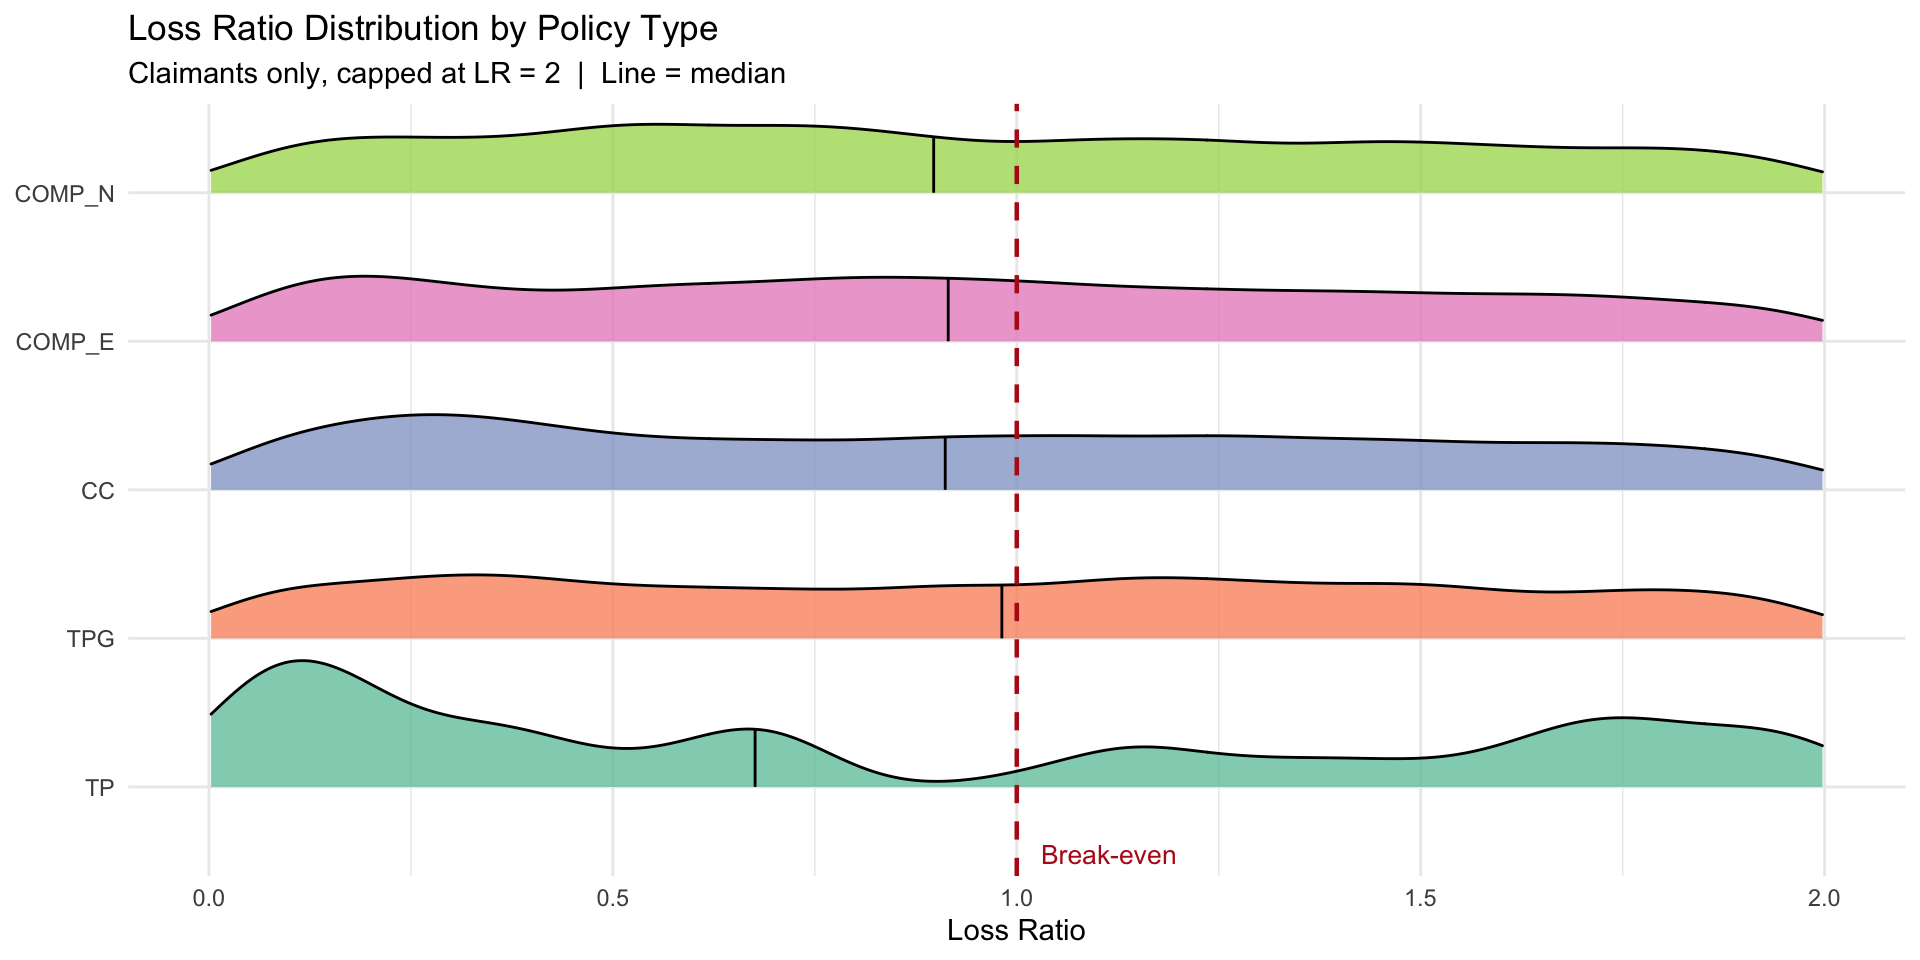
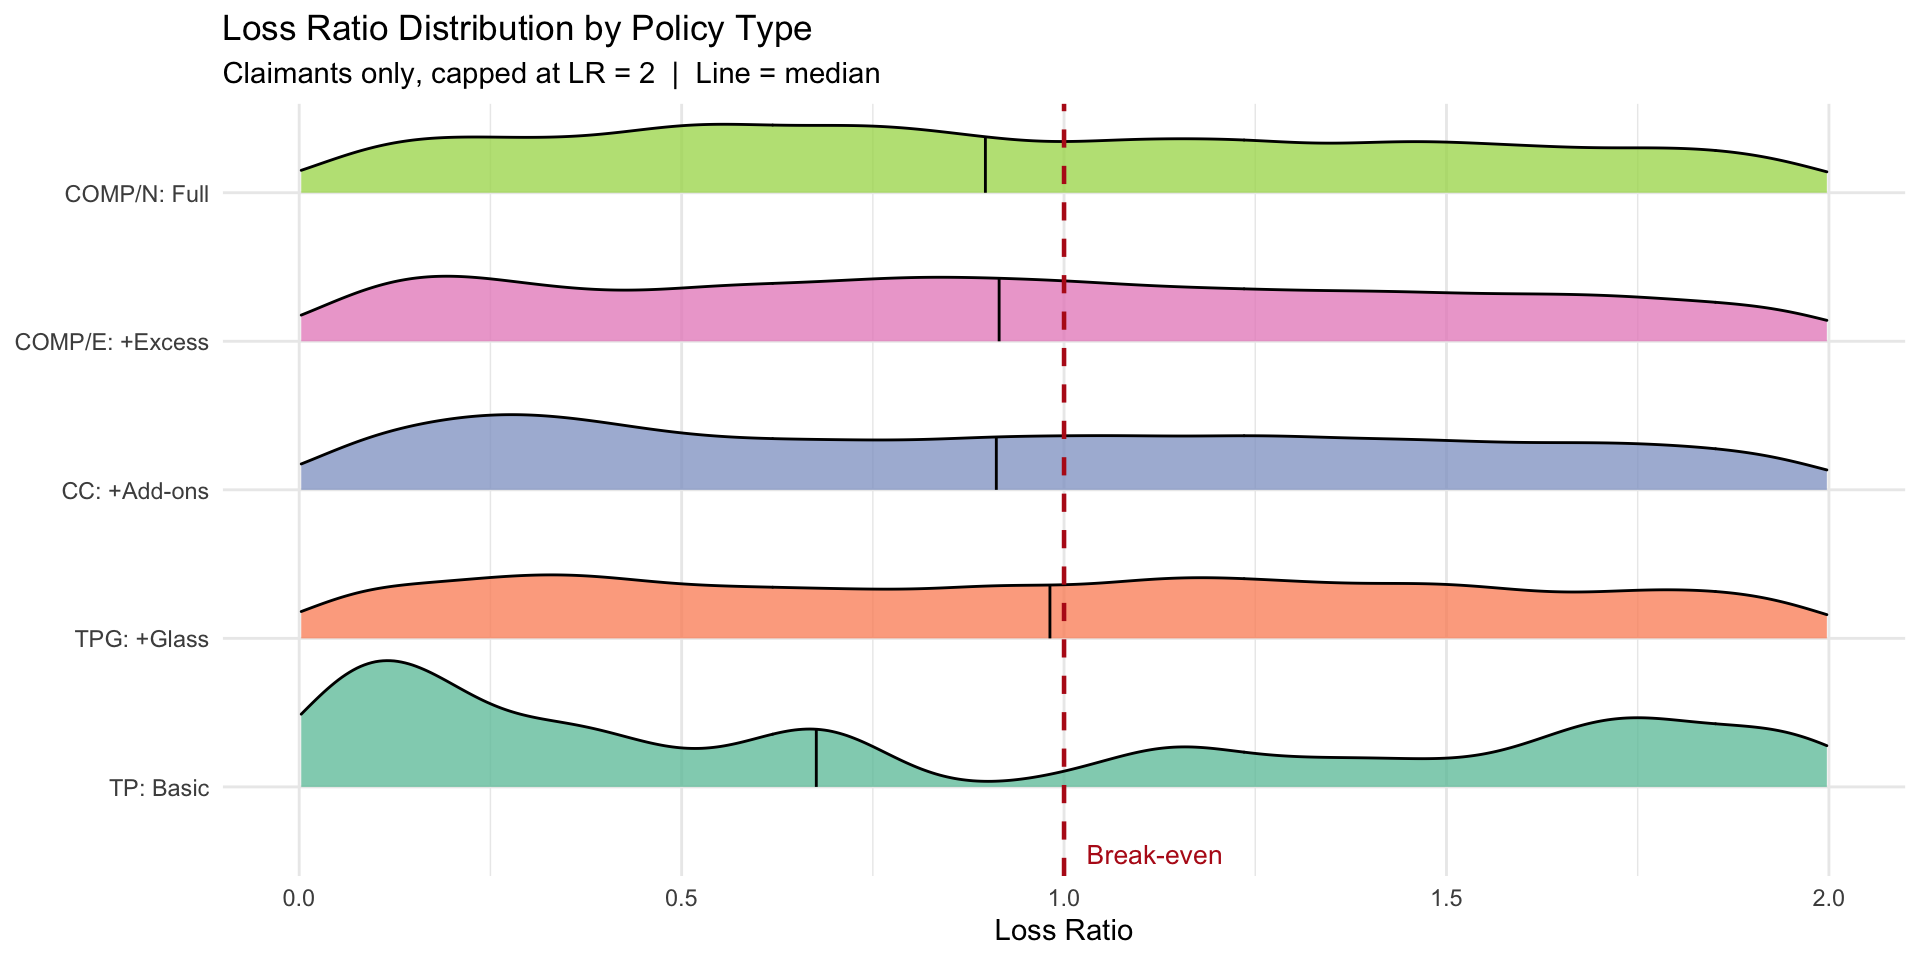
Fix policy type labels in both report and slides, correct percentages

diff --git a/_site/Take-home_Ex/Take-home_Ex01/Take-home_Ex01.html b/_site/Take-home_Ex/Take-home_Ex01/Take-home_Ex01.html
@@ -283,7 +283,7 @@ pre > code.sourceCode > span > a:first-child::before { text-decoration: underlin
     <div>
     <div class="quarto-title-meta-heading">Modified</div>
     <div class="quarto-title-meta-contents">
-      <p class="date-modified">May 19, 2026</p>
+      <p class="date-modified">May 22, 2026</p>
     </div>
   </div>
     
@@ -500,23 +500,25 @@ Note
 <div class="code-copy-outer-scaffold"><div class="sourceCode cell-code" id="cb8"><pre class="sourceCode r code-with-copy"><code class="sourceCode r"><span id="cb8-1"><a href="#cb8-1" aria-hidden="true" tabindex="-1"></a>insurance <span class="ot">&lt;-</span> insurance <span class="sc">|&gt;</span></span>
 <span id="cb8-2"><a href="#cb8-2" aria-hidden="true" tabindex="-1"></a>  <span class="fu">mutate</span>(</span>
 <span id="cb8-3"><a href="#cb8-3" aria-hidden="true" tabindex="-1"></a>    <span class="at">policy_type =</span> <span class="fu">factor</span>(policy_type,</span>
-<span id="cb8-4"><a href="#cb8-4" aria-hidden="true" tabindex="-1"></a>                         <span class="at">levels =</span> <span class="fu">c</span>(<span class="st">"TP"</span>, <span class="st">"TPG"</span>, <span class="st">"CC"</span>, <span class="st">"COMP_E"</span>, <span class="st">"COMP_N"</span>)),</span>
-<span id="cb8-5"><a href="#cb8-5" aria-hidden="true" tabindex="-1"></a>    <span class="at">policy_status =</span> <span class="fu">factor</span>(policy_status, <span class="at">levels =</span> <span class="fu">c</span>(<span class="st">"A"</span>, <span class="st">"C"</span>),</span>
-<span id="cb8-6"><a href="#cb8-6" aria-hidden="true" tabindex="-1"></a>                           <span class="at">labels =</span> <span class="fu">c</span>(<span class="st">"Active"</span>, <span class="st">"Cancelled"</span>)),</span>
-<span id="cb8-7"><a href="#cb8-7" aria-hidden="true" tabindex="-1"></a>    <span class="at">business_type =</span> <span class="fu">factor</span>(business_type, <span class="at">levels =</span> <span class="fu">c</span>(<span class="st">"NB"</span>, <span class="st">"P"</span>),</span>
-<span id="cb8-8"><a href="#cb8-8" aria-hidden="true" tabindex="-1"></a>                           <span class="at">labels =</span> <span class="fu">c</span>(<span class="st">"New Business"</span>, <span class="st">"Portfolio"</span>)),</span>
-<span id="cb8-9"><a href="#cb8-9" aria-hidden="true" tabindex="-1"></a>    <span class="at">payment_frequency =</span> <span class="fu">factor</span>(payment_frequency, <span class="at">levels =</span> <span class="fu">c</span>(<span class="st">"A"</span>, <span class="st">"S"</span>, <span class="st">"Q"</span>),</span>
-<span id="cb8-10"><a href="#cb8-10" aria-hidden="true" tabindex="-1"></a>                               <span class="at">labels =</span> <span class="fu">c</span>(<span class="st">"Annual"</span>, <span class="st">"Semiannual"</span>, <span class="st">"Quarterly"</span>)),</span>
-<span id="cb8-11"><a href="#cb8-11" aria-hidden="true" tabindex="-1"></a>    <span class="at">bonus_score =</span> <span class="fu">factor</span>(bonus_score, <span class="at">levels =</span> <span class="fu">c</span>(<span class="st">"G"</span>, <span class="st">"N"</span>, <span class="st">"B"</span>),</span>
-<span id="cb8-12"><a href="#cb8-12" aria-hidden="true" tabindex="-1"></a>                         <span class="at">labels =</span> <span class="fu">c</span>(<span class="st">"Good"</span>, <span class="st">"Neutral"</span>, <span class="st">"Bad"</span>)),</span>
-<span id="cb8-13"><a href="#cb8-13" aria-hidden="true" tabindex="-1"></a>    <span class="at">fuel_type =</span> <span class="fu">factor</span>(fuel_type, <span class="at">levels =</span> <span class="fu">c</span>(<span class="st">"D"</span>, <span class="st">"G"</span>),</span>
-<span id="cb8-14"><a href="#cb8-14" aria-hidden="true" tabindex="-1"></a>                       <span class="at">labels =</span> <span class="fu">c</span>(<span class="st">"Diesel"</span>, <span class="st">"Gasoline"</span>)),</span>
-<span id="cb8-15"><a href="#cb8-15" aria-hidden="true" tabindex="-1"></a>    <span class="at">municipality_type =</span> <span class="fu">factor</span>(municipality_type, <span class="at">levels =</span> <span class="fu">c</span>(<span class="st">"I"</span>, <span class="st">"C"</span>, <span class="st">"IS"</span>),</span>
-<span id="cb8-16"><a href="#cb8-16" aria-hidden="true" tabindex="-1"></a>                               <span class="at">labels =</span> <span class="fu">c</span>(<span class="st">"Inland"</span>, <span class="st">"Coastal"</span>, <span class="st">"Islands"</span>)),</span>
-<span id="cb8-17"><a href="#cb8-17" aria-hidden="true" tabindex="-1"></a>    <span class="at">circulation_area =</span> <span class="fu">factor</span>(circulation_area, <span class="at">levels =</span> <span class="fu">c</span>(<span class="st">"U"</span>, <span class="st">"R"</span>),</span>
-<span id="cb8-18"><a href="#cb8-18" aria-hidden="true" tabindex="-1"></a>                              <span class="at">labels =</span> <span class="fu">c</span>(<span class="st">"Urban"</span>, <span class="st">"Rural"</span>)),</span>
-<span id="cb8-19"><a href="#cb8-19" aria-hidden="true" tabindex="-1"></a>    <span class="at">year =</span> <span class="fu">as.integer</span>(year)</span>
-<span id="cb8-20"><a href="#cb8-20" aria-hidden="true" tabindex="-1"></a>  )</span></code></pre></div><button title="Copy to Clipboard" class="code-copy-button"><i class="bi"></i></button></div>
+<span id="cb8-4"><a href="#cb8-4" aria-hidden="true" tabindex="-1"></a>                         <span class="at">levels =</span> <span class="fu">c</span>(<span class="st">"TP"</span>, <span class="st">"TPG"</span>, <span class="st">"CC"</span>, <span class="st">"COMP_E"</span>, <span class="st">"COMP_N"</span>),</span>
+<span id="cb8-5"><a href="#cb8-5" aria-hidden="true" tabindex="-1"></a>                         <span class="at">labels =</span> <span class="fu">c</span>(<span class="st">"TP: Basic"</span>, <span class="st">"TPG: +Glass"</span>, <span class="st">"CC: +Add-ons"</span>,</span>
+<span id="cb8-6"><a href="#cb8-6" aria-hidden="true" tabindex="-1"></a>                                    <span class="st">"COMP/E: +Excess"</span>, <span class="st">"COMP/N: Full"</span>)),</span>
+<span id="cb8-7"><a href="#cb8-7" aria-hidden="true" tabindex="-1"></a>    <span class="at">policy_status =</span> <span class="fu">factor</span>(policy_status, <span class="at">levels =</span> <span class="fu">c</span>(<span class="st">"A"</span>, <span class="st">"C"</span>),</span>
+<span id="cb8-8"><a href="#cb8-8" aria-hidden="true" tabindex="-1"></a>                           <span class="at">labels =</span> <span class="fu">c</span>(<span class="st">"Active"</span>, <span class="st">"Cancelled"</span>)),</span>
+<span id="cb8-9"><a href="#cb8-9" aria-hidden="true" tabindex="-1"></a>    <span class="at">business_type =</span> <span class="fu">factor</span>(business_type, <span class="at">levels =</span> <span class="fu">c</span>(<span class="st">"NB"</span>, <span class="st">"P"</span>),</span>
+<span id="cb8-10"><a href="#cb8-10" aria-hidden="true" tabindex="-1"></a>                           <span class="at">labels =</span> <span class="fu">c</span>(<span class="st">"New Business"</span>, <span class="st">"Portfolio"</span>)),</span>
+<span id="cb8-11"><a href="#cb8-11" aria-hidden="true" tabindex="-1"></a>    <span class="at">payment_frequency =</span> <span class="fu">factor</span>(payment_frequency, <span class="at">levels =</span> <span class="fu">c</span>(<span class="st">"A"</span>, <span class="st">"S"</span>, <span class="st">"Q"</span>),</span>
+<span id="cb8-12"><a href="#cb8-12" aria-hidden="true" tabindex="-1"></a>                               <span class="at">labels =</span> <span class="fu">c</span>(<span class="st">"Annual"</span>, <span class="st">"Semiannual"</span>, <span class="st">"Quarterly"</span>)),</span>
+<span id="cb8-13"><a href="#cb8-13" aria-hidden="true" tabindex="-1"></a>    <span class="at">bonus_score =</span> <span class="fu">factor</span>(bonus_score, <span class="at">levels =</span> <span class="fu">c</span>(<span class="st">"G"</span>, <span class="st">"N"</span>, <span class="st">"B"</span>),</span>
+<span id="cb8-14"><a href="#cb8-14" aria-hidden="true" tabindex="-1"></a>                         <span class="at">labels =</span> <span class="fu">c</span>(<span class="st">"Good"</span>, <span class="st">"Neutral"</span>, <span class="st">"Bad"</span>)),</span>
+<span id="cb8-15"><a href="#cb8-15" aria-hidden="true" tabindex="-1"></a>    <span class="at">fuel_type =</span> <span class="fu">factor</span>(fuel_type, <span class="at">levels =</span> <span class="fu">c</span>(<span class="st">"D"</span>, <span class="st">"G"</span>),</span>
+<span id="cb8-16"><a href="#cb8-16" aria-hidden="true" tabindex="-1"></a>                       <span class="at">labels =</span> <span class="fu">c</span>(<span class="st">"Diesel"</span>, <span class="st">"Gasoline"</span>)),</span>
+<span id="cb8-17"><a href="#cb8-17" aria-hidden="true" tabindex="-1"></a>    <span class="at">municipality_type =</span> <span class="fu">factor</span>(municipality_type, <span class="at">levels =</span> <span class="fu">c</span>(<span class="st">"I"</span>, <span class="st">"C"</span>, <span class="st">"IS"</span>),</span>
+<span id="cb8-18"><a href="#cb8-18" aria-hidden="true" tabindex="-1"></a>                               <span class="at">labels =</span> <span class="fu">c</span>(<span class="st">"Inland"</span>, <span class="st">"Coastal"</span>, <span class="st">"Islands"</span>)),</span>
+<span id="cb8-19"><a href="#cb8-19" aria-hidden="true" tabindex="-1"></a>    <span class="at">circulation_area =</span> <span class="fu">factor</span>(circulation_area, <span class="at">levels =</span> <span class="fu">c</span>(<span class="st">"U"</span>, <span class="st">"R"</span>),</span>
+<span id="cb8-20"><a href="#cb8-20" aria-hidden="true" tabindex="-1"></a>                              <span class="at">labels =</span> <span class="fu">c</span>(<span class="st">"Urban"</span>, <span class="st">"Rural"</span>)),</span>
+<span id="cb8-21"><a href="#cb8-21" aria-hidden="true" tabindex="-1"></a>    <span class="at">year =</span> <span class="fu">as.integer</span>(year)</span>
+<span id="cb8-22"><a href="#cb8-22" aria-hidden="true" tabindex="-1"></a>  )</span></code></pre></div><button title="Copy to Clipboard" class="code-copy-button"><i class="bi"></i></button></div>
 </details>
 </div>
 </section>
@@ -569,7 +571,7 @@ Note
 <tr class="odd">
 <td style="text-align: right;">1</td>
 <td style="text-align: right;">2022</td>
-<td style="text-align: left;">COMP_E</td>
+<td style="text-align: left;">COMP/E: +Excess</td>
 <td style="text-align: right;">48</td>
 <td style="text-align: right;">279.558</td>
 <td style="text-align: right;">0.000</td>
@@ -579,7 +581,7 @@ Note
 <tr class="even">
 <td style="text-align: right;">2</td>
 <td style="text-align: right;">2022</td>
-<td style="text-align: left;">COMP_E</td>
+<td style="text-align: left;">COMP/E: +Excess</td>
 <td style="text-align: right;">43</td>
 <td style="text-align: right;">546.623</td>
 <td style="text-align: right;">0.000</td>
@@ -589,7 +591,7 @@ Note
 <tr class="odd">
 <td style="text-align: right;">2</td>
 <td style="text-align: right;">2023</td>
-<td style="text-align: left;">COMP_E</td>
+<td style="text-align: left;">COMP/E: +Excess</td>
 <td style="text-align: right;">44</td>
 <td style="text-align: right;">548.753</td>
 <td style="text-align: right;">233.013</td>
@@ -599,7 +601,7 @@ Note
 <tr class="even">
 <td style="text-align: right;">2</td>
 <td style="text-align: right;">2024</td>
-<td style="text-align: left;">COMP_E</td>
+<td style="text-align: left;">COMP/E: +Excess</td>
 <td style="text-align: right;">45</td>
 <td style="text-align: right;">584.632</td>
 <td style="text-align: right;">2586.362</td>
@@ -609,7 +611,7 @@ Note
 <tr class="odd">
 <td style="text-align: right;">3</td>
 <td style="text-align: right;">2022</td>
-<td style="text-align: left;">COMP_E</td>
+<td style="text-align: left;">COMP/E: +Excess</td>
 <td style="text-align: right;">45</td>
 <td style="text-align: right;">687.491</td>
 <td style="text-align: right;">0.000</td>
@@ -619,7 +621,7 @@ Note
 <tr class="even">
 <td style="text-align: right;">3</td>
 <td style="text-align: right;">2023</td>
-<td style="text-align: left;">COMP_E</td>
+<td style="text-align: left;">COMP/E: +Excess</td>
 <td style="text-align: right;">46</td>
 <td style="text-align: right;">693.670</td>
 <td style="text-align: right;">0.000</td>
@@ -629,7 +631,7 @@ Note
 <tr class="odd">
 <td style="text-align: right;">3</td>
 <td style="text-align: right;">2024</td>
-<td style="text-align: left;">COMP_E</td>
+<td style="text-align: left;">COMP/E: +Excess</td>
 <td style="text-align: right;">47</td>
 <td style="text-align: right;">742.413</td>
 <td style="text-align: right;">0.000</td>
@@ -639,7 +641,7 @@ Note
 <tr class="even">
 <td style="text-align: right;">4</td>
 <td style="text-align: right;">2022</td>
-<td style="text-align: left;">CC</td>
+<td style="text-align: left;">CC: +Add-ons</td>
 <td style="text-align: right;">32</td>
 <td style="text-align: right;">384.920</td>
 <td style="text-align: right;">0.000</td>
@@ -672,9 +674,9 @@ Note
 <span id="cb11-10"><a href="#cb11-10" aria-hidden="true" tabindex="-1"></a>  <span class="fu">scale_y_continuous</span>(<span class="at">labels =</span> comma,</span>
 <span id="cb11-11"><a href="#cb11-11" aria-hidden="true" tabindex="-1"></a>                     <span class="at">expand =</span> <span class="fu">expansion</span>(<span class="at">mult =</span> <span class="fu">c</span>(<span class="dv">0</span>, <span class="fl">0.18</span>))) <span class="sc">+</span></span>
 <span id="cb11-12"><a href="#cb11-12" aria-hidden="true" tabindex="-1"></a>  <span class="fu">scale_fill_manual</span>(<span class="at">values =</span> <span class="fu">c</span>(</span>
-<span id="cb11-13"><a href="#cb11-13" aria-hidden="true" tabindex="-1"></a>    <span class="st">"TP"</span>     <span class="ot">=</span> <span class="st">"#BBDEFB"</span>, <span class="st">"TPG"</span> <span class="ot">=</span> <span class="st">"#90CAF9"</span>,</span>
-<span id="cb11-14"><a href="#cb11-14" aria-hidden="true" tabindex="-1"></a>    <span class="st">"CC"</span>     <span class="ot">=</span> <span class="st">"#42A5F5"</span>, <span class="st">"COMP_E"</span> <span class="ot">=</span> <span class="st">"#1976D2"</span>,</span>
-<span id="cb11-15"><a href="#cb11-15" aria-hidden="true" tabindex="-1"></a>    <span class="st">"COMP_N"</span> <span class="ot">=</span> <span class="st">"#0D47A1"</span>)) <span class="sc">+</span></span>
+<span id="cb11-13"><a href="#cb11-13" aria-hidden="true" tabindex="-1"></a>    <span class="st">"TP: Basic"</span>      <span class="ot">=</span> <span class="st">"#BBDEFB"</span>, <span class="st">"TPG: +Glass"</span>    <span class="ot">=</span> <span class="st">"#90CAF9"</span>,</span>
+<span id="cb11-14"><a href="#cb11-14" aria-hidden="true" tabindex="-1"></a>    <span class="st">"CC: +Add-ons"</span>   <span class="ot">=</span> <span class="st">"#42A5F5"</span>, <span class="st">"COMP/E: +Excess"</span> <span class="ot">=</span> <span class="st">"#1976D2"</span>,</span>
+<span id="cb11-15"><a href="#cb11-15" aria-hidden="true" tabindex="-1"></a>    <span class="st">"COMP/N: Full"</span>   <span class="ot">=</span> <span class="st">"#0D47A1"</span>)) <span class="sc">+</span></span>
 <span id="cb11-16"><a href="#cb11-16" aria-hidden="true" tabindex="-1"></a>  <span class="fu">labs</span>(<span class="at">title =</span> <span class="st">"Distribution of Policy Type"</span>,</span>
 <span id="cb11-17"><a href="#cb11-17" aria-hidden="true" tabindex="-1"></a>       <span class="at">x =</span> <span class="cn">NULL</span>, <span class="at">y =</span> <span class="st">"Number of Policies"</span>) <span class="sc">+</span></span>
 <span id="cb11-18"><a href="#cb11-18" aria-hidden="true" tabindex="-1"></a>  <span class="fu">theme_minimal</span>() <span class="sc">+</span></span>
@@ -688,7 +690,7 @@ Note
 </div>
 </div>
 </div>
-<p><strong>Observation:</strong> The CC policy type dominates the portfolio at over 62%, followed by COMP_E at around 22%. The basic TP policies are rare at under 1%, suggesting this portfolio skews toward customers who elect broader coverage. The near-absence of basic TP policies may indicate a deliberate underwriting strategy targeting higher-coverage segments.</p>
+<p><strong>Observation:</strong> The CC: +Add-ons policy type dominates the portfolio at 57.8%, followed by COMP/E: +Excess at 25.8%. Basic TP: Basic policies are rare at just 1.6%, suggesting this portfolio skews toward customers who elect broader coverage. The near-absence of basic TP policies may indicate a deliberate underwriting strategy targeting higher-coverage segments.</p>
 <hr>
 </section>
 <section id="distribution-of-policy-status" class="level3" data-number="3.2">
@@ -1214,7 +1216,7 @@ Note
 </div>
 </div>
 </div>
-<p><strong>Observation:</strong> Loss ratio distributions vary markedly across policy types. Comprehensive policies (COMP_E and COMP_N) show the widest distributions and highest medians, reflecting the broader coverage they provide. The TP and TPG policies are concentrated near zero as their coverage is limited to third-party liability only.</p>
+<p><strong>Observation:</strong> Loss ratio distributions vary markedly across policy types. Comprehensive policies (COMP/E: +Excess and COMP/N: Full) show the widest distributions and highest medians, reflecting the broader coverage they provide. The TP: Basic and TPG: +Glass policies are concentrated near zero as their coverage is limited to third-party liability only.</p>
 <hr>
 </section>
 <section id="loss-ratio-by-bonus-score" class="level3" data-number="6.2">
@@ -1398,7 +1400,7 @@ Note
 </div>
 </div>
 </div>
-<p><strong>Observation:</strong> Comprehensive policies (COMP_E and COMP_N) show substantially higher claim severity compared to basic coverage types, reflecting their broader protection against costly events like theft and total loss. High variance within each policy type highlights the difficulty of predicting individual claim costs.</p>
+<p><strong>Observation:</strong> Comprehensive policies (COMP/E: +Excess and COMP/N: Full) show substantially higher claim severity compared to basic coverage types, reflecting their broader protection against costly events like theft and total loss. High variance within each policy type highlights the difficulty of predicting individual claim costs.</p>
 </section>
 </section>
 <section id="eda-5-bivariate-analysis-factors-affecting-volatility" class="level2" data-number="7">
@@ -1562,9 +1564,9 @@ Note
 <p>This analysis explored the motor vehicle insurance portfolio across 354,140 policies spanning 2022–2024 using univariate and bivariate EDA methods. All 47 variables were examined across 5 EDA sections.</p>
 <p><strong>Key findings on profitability:</strong></p>
 <ul>
-<li>The portfolio is dominated by CC and COMP_E policy types which carry the highest claim severity</li>
+<li>The portfolio is dominated by CC: +Add-ons and COMP/E: +Excess policy types which carry the highest claim severity</li>
 <li>Bonus score (claims history) is a strong predictor of loss ratio. “Bad” policyholders show markedly higher and more variable loss ratios</li>
-<li>Comprehensive policies (COMP_E, COMP_N) consistently exhibit higher loss ratios than basic coverage types</li>
+<li>Comprehensive policies (COMP/E: +Excess, COMP/N: Full) consistently exhibit higher loss ratios than basic coverage types, and both crossed break-even in 2024</li>
 <li>Over 88% of policies generate zero claims, creating a highly skewed loss distribution that drives average loss ratios</li>
 </ul>
 <p><strong>Key findings on volatility:</strong></p>
